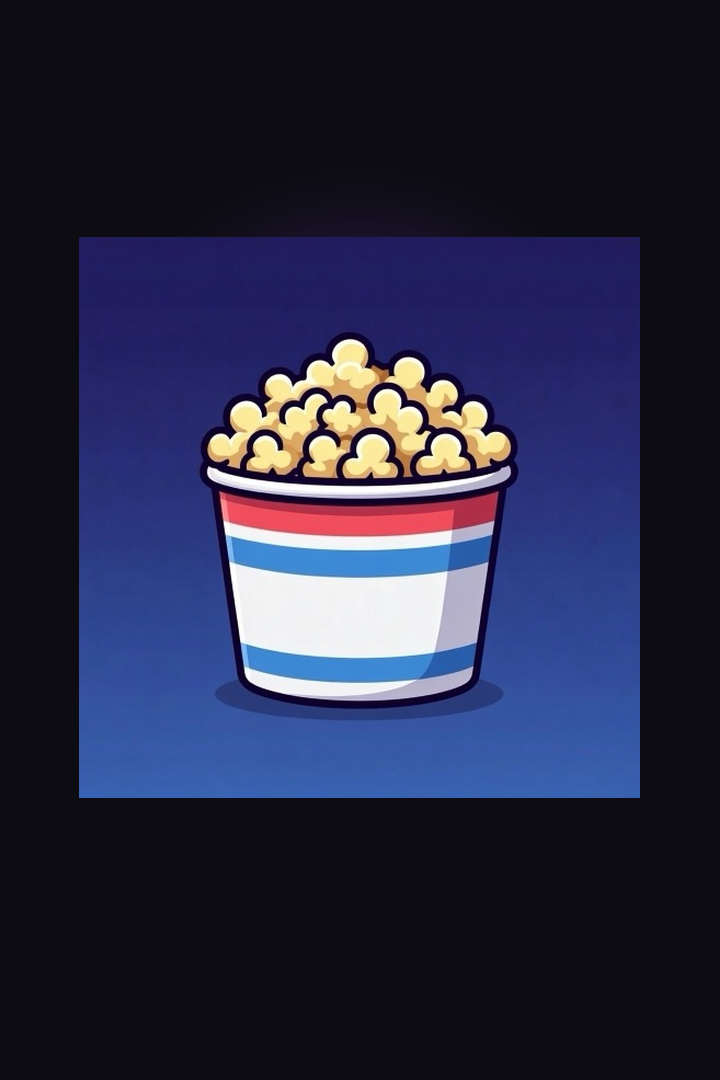
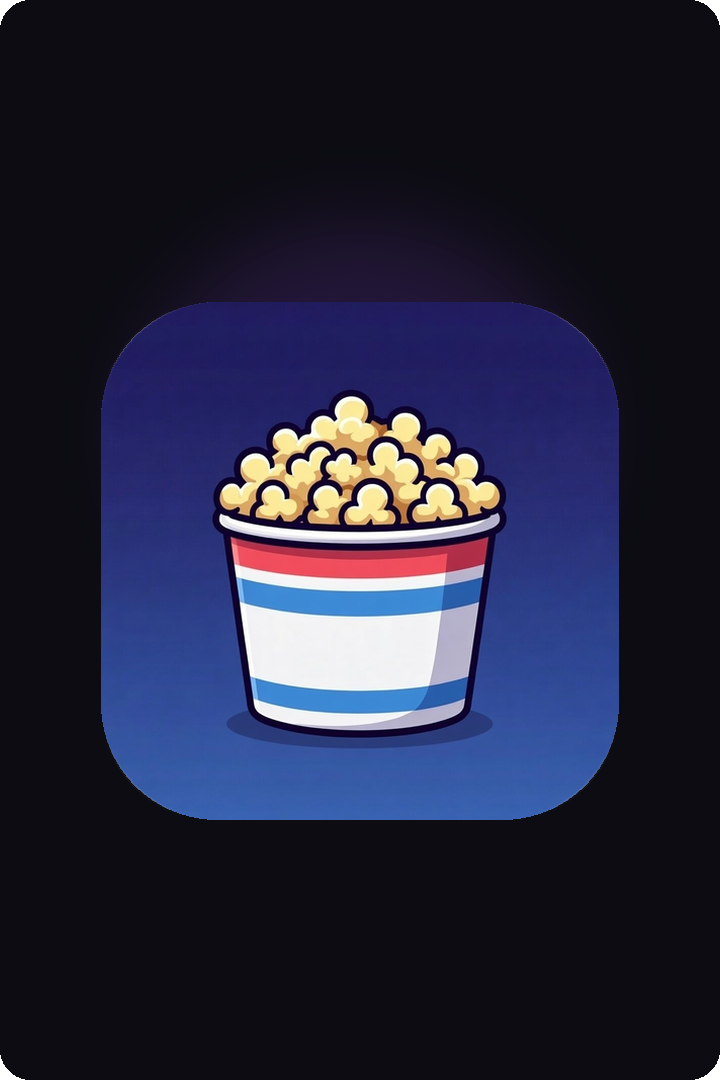
Stop second film load after page paint; rounded poster placeholder.
cabinet-app no longer wipes film-page.js render on idle load; 30px poster PNG from brand play-icon.

diff --git a/cabinet-app.js b/cabinet-app.js
@@ -342,16 +342,27 @@
     } catch (_) {}
   }
 
+  function isFilmLiteRouteActive() {
+    if (!window.__MP_FILM_ROUTE_LITE_READY) return false;
+    const pageRoot = document.getElementById('film-page-content');
+    if (!pageRoot) return true;
+    return !!(pageRoot.querySelector('.film-hero-with-tag') || pageRoot.querySelector('.mp-page-loading'));
+  }
+
   function consumeFilmPathDeepLink() {
     try {
       const pathKp = kpIdFromPathname(window.location.pathname);
       if (!pathKp || !/^\d+$/.test(pathKp)) return false;
       if (getToken()) return false;
+      if (window.__MP_FILM_RENDERED || isFilmLiteRouteActive()) return false;
+      const pageRoot = document.getElementById('film-page-content');
+      if (pageRoot && pageRoot.querySelector('.film-hero-with-tag') && !pageRoot.classList.contains('loading')) {
+        return false;
+      }
       if (!document.getElementById('landing')) return false;
       showScreen('cabinet-readonly');
       renderHeader(null);
       showFilmPageLayout();
-      const pageRoot = document.getElementById('film-page-content');
       if (pageRoot) {
         pageRoot.className = 'movie-page loading';
         pageRoot.innerHTML = pageLoadingHtml();
@@ -639,6 +650,13 @@
   function openFilmHeroByKpPublic(kp, o) {
     const pageRoot = document.getElementById('film-page-content');
     if (!pageRoot) return Promise.resolve();
+    if (window.__MP_FILM_RENDERED || isFilmLiteRouteActive()) return Promise.resolve();
+    const existingHero = pageRoot.querySelector('.film-hero-with-tag');
+    const existingTitle = pageRoot.querySelector('#film-title');
+    if (existingHero && existingTitle && !pageRoot.classList.contains('loading')) {
+      const t = String(existingTitle.textContent || '').trim();
+      if (t && t !== 'Загрузка…' && !isGenericFilmTitle(t)) return Promise.resolve();
+    }
     _filmModalCurrentId = null;
     _staffPageKpId = null;
     dismissStaffHoverPreview();
@@ -648,7 +666,7 @@
       else if (!o.skipHistory) history.pushState({ view: 'film', kpId: kp }, '', path);
     } catch (_) {}
     const bootFilm = filmFromRouteBoot(kp);
-    const hasHero = !!(pageRoot.querySelector('.film-hero-with-tag') && bootFilm && !isGenericFilmTitle(bootFilm.title));
+    const hasHero = !!(existingHero && bootFilm && !isGenericFilmTitle(bootFilm.title));
     if (!hasHero) {
       pageRoot.className = 'movie-page loading';
       pageRoot.innerHTML = pageLoadingHtml();
@@ -15713,7 +15731,7 @@
     if (window.__MP_FILM_ROUTE_LITE_READY) {
       if (getToken()) {
         loadMeAndShowCabinet();
-      } else {
+      } else if (!window.__MP_FILM_RENDERED && !isFilmLiteRouteActive()) {
         handleAuthEntryDeepLinks();
       }
       const footerYearElLite = document.getElementById('footer-year');

diff --git a/index.html b/index.html
@@ -28,8 +28,8 @@
     <link rel="icon" type="image/png" href="/images/favicon.png" sizes="16x16">
     <link rel="icon" type="image/png" href="/images/favicon-120.png" sizes="120x120">
     <link rel="shortcut icon" href="/favicon.ico">
-    <link rel="preload" href="/style-v2.css?v=20260621placeholders2" as="style">
-    <link rel="stylesheet" href="/style-v2.css?v=20260621placeholders2">
+    <link rel="preload" href="/style-v2.css?v=20260621reloadfix1" as="style">
+    <link rel="stylesheet" href="/style-v2.css?v=20260621reloadfix1">
     <script>
       (function () {
         var path = (location.pathname || '/').replace(/\/$/, '') || '/';
@@ -1941,18 +1941,18 @@
         ];
         var list;
         if (isSearch) {
-          list = ['page-loading.js?v=20260529mobileparity1', 'cabinet-app.js?v=20260621placeholders2'];
+          list = ['page-loading.js?v=20260529mobileparity1', 'cabinet-app.js?v=20260621reloadfix1'];
         } else {
           list = core.concat(isRoute ? [] : cabinet);
         }
         if (isFilm) {
-          list.push('film-page.js?v=20260621routefix1');
-          list.push('cabinet-film-route.js?v=20260621routefix1');
+          list.push('film-page.js?v=20260621reloadfix1');
+          list.push('cabinet-film-route.js?v=20260621reloadfix1');
         } else if (isStaff) {
-          list.push('staff-page.js?v=20260621placeholders2');
-          list.push('cabinet-app.js?v=20260621placeholders2');
+          list.push('staff-page.js?v=20260621reloadfix1');
+          list.push('cabinet-app.js?v=20260621reloadfix1');
         } else {
-          list.push('cabinet-app.js?v=20260621placeholders2');
+          list.push('cabinet-app.js?v=20260621reloadfix1');
         }
         function loadAt(i) {
           if (i >= list.length) return;

diff --git a/cabinet-film-route.js b/cabinet-film-route.js
@@ -5,7 +5,7 @@
 (function (global) {
   'use strict';
 
-  var BUILD = '20260621routefix1';
+  var BUILD = '20260621reloadfix1';
   var FULL_CABINET_SRC = '/cabinet-app.js?v=' + BUILD;
   var _fullLoading = false;
   var _fullReady = false;

diff --git a/style-v2.css b/style-v2.css
@@ -9187,7 +9187,7 @@ main.film-page .poster-wrap {
 #section-film .poster {
   width: 100%;
   aspect-ratio: 2 / 3;
-  border-radius: 24px;
+  border-radius: 30px;
   object-fit: cover;
   object-position: center center;
   background: #151528;